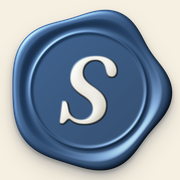
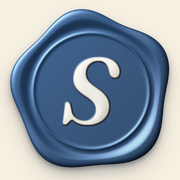
Fix seal glyph on-device; seed 35; add a /lab menu
- Missing glyph: the seal draws its "S" to an oversampled scratch canvas
  (big = dim × 3). At the icon studio's render size on a phone (dpr 3) that
  was ~10800² px, past iOS's ~4096²/16.7M-px canvas cap, so iOS silently
  drew nothing — the seal rendered face-blank on-device (desktop's higher
  cap hid it). Cap the oversample so big never exceeds 4096, and drop the
  studio master to superSample 2 so its own canvas stays well under the
  cap. Glyph renders everywhere now.
- Icon seed 3 → 35 (cleaner five-lobe; also sits better inside the maskable
  safe zone). Re-baked all icons + re-balanced.
- Add /lab: a menu of the lab tools, auto-scanned from the routes (nests
  sub-pages), static so it works on preview deploys. Gated off production
  with the rest of /lab by src/proxy.ts.

Changed region(s): [[0.0556, 0.0278, 0.9722, 0.9722], [0.3333, 0.3056, 0.6944, 0.7222], [0.75, 0.3056, 0.7778, 0.3333]]

diff --git a/src/app/(dev)/lab/page.tsx b/src/app/(dev)/lab/page.tsx
@@ -1,0 +1,73 @@
+import fs from "node:fs";
+import path from "node:path";
+import Link from "next/link";
+
+/**
+ * Menu of the lab tools — a directory of everything under /lab, nested by folder.
+ * Built by scanning the routes at build time (add a lab page, it appears here).
+ * Gated to non-production by src/proxy.ts, so this only shows on local dev and
+ * preview deploys.
+ */
+export const dynamic = "force-static";
+
+interface Node {
+  name: string;
+  href: string;
+  hasPage: boolean;
+  children: Node[];
+}
+
+function scan(dirAbs: string, hrefBase: string): Node[] {
+  let entries: fs.Dirent[] = [];
+  try {
+    entries = fs.readdirSync(dirAbs, { withFileTypes: true });
+  } catch {
+    return [];
+  }
+  return entries
+    .filter((e) => e.isDirectory() && !e.name.startsWith("(") && !e.name.startsWith("_"))
+    .map((e) => {
+      const abs = path.join(dirAbs, e.name);
+      const href = `${hrefBase}/${e.name}`;
+      const hasPage =
+        fs.existsSync(path.join(abs, "page.tsx")) || fs.existsSync(path.join(abs, "page.jsx"));
+      return { name: e.name, href, hasPage, children: scan(abs, href) };
+    })
+    .sort((a, b) => a.name.localeCompare(b.name));
+}
+
+const LAB = scan(path.join(process.cwd(), "src/app/(dev)/lab"), "/lab");
+
+function List({ nodes }: { nodes: Node[] }) {
+  return (
+    <ul style={{ listStyle: "none", margin: 0, paddingLeft: 18, display: "flex", flexDirection: "column", gap: 6 }}>
+      {nodes.map((n) => (
+        <li key={n.href}>
+          {n.hasPage ? (
+            <Link href={n.href} style={{ color: "#1e3a5f", textDecoration: "none", fontWeight: 600 }}>
+              {n.name}
+            </Link>
+          ) : (
+            <span style={{ color: "#6f6553" }}>{n.name}/</span>
+          )}
+          {n.children.length > 0 && <List nodes={n.children} />}
+        </li>
+      ))}
+    </ul>
+  );
+}
+
+export default function LabMenu() {
+  return (
+    <div style={{ minHeight: "100vh", background: "#e8dcc2", color: "#241e15", padding: 24, fontFamily: "ui-monospace, monospace" }}>
+      <div style={{ maxWidth: 560, margin: "0 auto" }}>
+        <h1 style={{ fontSize: 20, fontWeight: 700, marginBottom: 4 }}>lab</h1>
+        <p style={{ color: "#6f6553", fontSize: 13, marginBottom: 20 }}>
+          Build-time tools. Not shipped to production — this menu and every page under it 404 on
+          the production domain (src/proxy.ts); reach them on a preview deploy.
+        </p>
+        <List nodes={LAB} />
+      </div>
+    </div>
+  );
+}

diff --git a/src/components/capture/wax-stamp.tsx b/src/components/capture/wax-stamp.tsx
@@ -753,7 +753,11 @@ function bakeGlyph(out: Float32Array, outR: Float32Array, iconImg: HTMLCanvasEle
   out.fill(0); outR.fill(0);
   iconImg.getContext("2d")!.clearRect(0, 0, dim, dim);
   if (!glyph) return;
-  const OV = 3, big = dim * OV;          // oversample factor + working resolution
+  // oversample for crisp AA, but CAP the working canvas to iOS's ~4096²-px limit:
+  // a large seal (the icon studio / bake, dim in the thousands) pushed big past it
+  // and iOS silently drew NO glyph — the seal rendered with a blank face on-device.
+  const OV = Math.max(1, Math.min(3, Math.floor(4096 / dim)));
+  const big = dim * OV;                  // oversample factor + working resolution
   const gc = document.createElement("canvas");
   gc.width = big; gc.height = big;
   const gx = gc.getContext("2d");

diff --git a/src/app/(dev)/lab/icon-studio/page.tsx b/src/app/(dev)/lab/icon-studio/page.tsx
@@ -271,7 +271,7 @@ export default function IconStudio() {
                 still
                 restGlyph
                 variant="spring"
-                superSample={3}
+                superSample={2}
                 puck={spec.puck}
                 glyphScale={spec.glyphScale}
                 tint={spec.tint}
